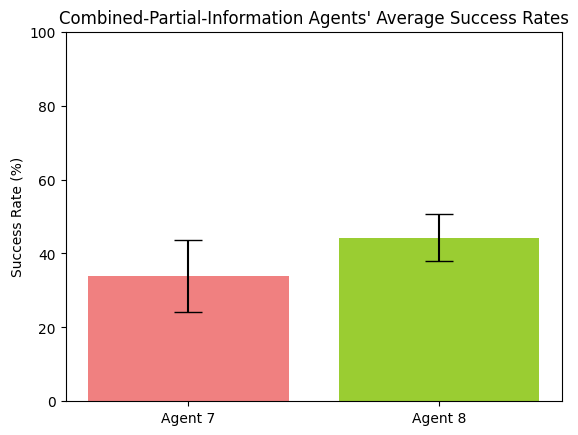
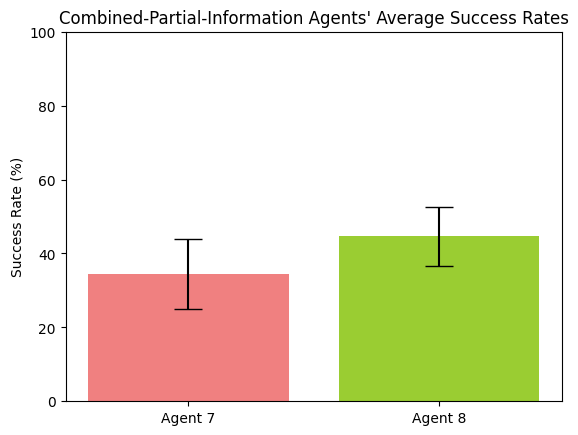
fixed bugs in lab report of a5 - a8

diff --git a/main.py b/main.py
@@ -2,6 +2,7 @@ import json
 import os
 import simulation_statistics as simulation_statistics
 
+
 def get_overall_simulation_statistics(wins, losses, timeouts, success_rates, found_prey=None, found_pred=None):
     average_wins = round(sum(wins) / len(wins), 2)
     average_losses = round(sum(losses) / len(losses), 2)
@@ -150,6 +151,7 @@ def labreport_simulation_statistics_agent4():
     print(
         f"Agent4: Overall Success Rate: {round(sum(success_rates) / len(success_rates),2)}%")
 
+
 def labreport_simulation_statistics_agent5():
     """
     runs 100 simulations 30 times and returns the average 
@@ -158,19 +160,20 @@ def labreport_simulation_statistics_agent5():
     losses = []
     timeouts = []
     success_rates = []
-    found_prey = []
+    found_pred = []
 
     for _ in range(30):
-        simulation_wins, simulation_losses, simulation_timeouts, simulation_success, simulation_found_prey = simulation_statistics.agent5(100, 50)
+        simulation_wins, simulation_losses, simulation_timeouts, simulation_success, simulation_found_pred = simulation_statistics.agent5(
+            100, 50)
 
         wins.append(simulation_wins)
         losses.append(simulation_losses)
         timeouts.append(simulation_timeouts)
         success_rates.append(simulation_success)
-        found_prey.append(simulation_found_prey)
+        found_pred.append(simulation_found_pred)
 
     agent_data = get_overall_simulation_statistics(
-        wins, losses, timeouts, success_rates, found_prey=found_prey)
+        wins, losses, timeouts, success_rates, found_pred=found_pred)
     save_simulation_statistics("partial-predator", "agent5", agent_data)
 
     print(
@@ -188,7 +191,8 @@ def labreport_simulation_statistics_agent6():
     found_pred = []
 
     for _ in range(30):
-        simulation_wins, simulation_losses, simulation_timeouts, simulation_success, simulation_found_pred = simulation_statistics.agent6(100, 50)
+        simulation_wins, simulation_losses, simulation_timeouts, simulation_success, simulation_found_pred = simulation_statistics.agent6(
+            100, 50)
 
         wins.append(simulation_wins)
         losses.append(simulation_losses)
@@ -196,11 +200,13 @@ def labreport_simulation_statistics_agent6():
         success_rates.append(simulation_success)
         found_pred.append(simulation_found_pred)
 
-    agent_data = get_overall_simulation_statistics(wins, losses, timeouts, success_rates, found_pred=found_pred)
+    agent_data = get_overall_simulation_statistics(
+        wins, losses, timeouts, success_rates, found_pred=found_pred)
     save_simulation_statistics("partial-predator", "agent6", agent_data)
 
     print(
         f"Agent6: Overall Success Rate: {round(sum(success_rates) / len(success_rates),2)}%")
+
 
 def labreport_simulation_statistics_agent7():
     """
@@ -210,11 +216,12 @@ def labreport_simulation_statistics_agent7():
     losses = []
     timeouts = []
     success_rates = []
-    found_prey = [] 
+    found_prey = []
     found_pred = []
 
     for _ in range(30):
-        simulation_wins, simulation_losses, simulation_timeouts, simulation_success, simulation_found_prey, simulation_found_pred = simulation_statistics.agent7(100, 50)
+        simulation_wins, simulation_losses, simulation_timeouts, simulation_success, simulation_found_prey, simulation_found_pred = simulation_statistics.agent7(
+            100, 50)
 
         wins.append(simulation_wins)
         losses.append(simulation_losses)
@@ -223,11 +230,14 @@ def labreport_simulation_statistics_agent7():
         found_prey.append(simulation_found_prey)
         found_pred.append(simulation_found_pred)
 
-    agent_data = get_overall_simulation_statistics(wins, losses, timeouts, success_rates, found_pred=found_pred)
-    save_simulation_statistics("combined-partial-information", "agent7", agent_data)
+    agent_data = get_overall_simulation_statistics(
+        wins, losses, timeouts, success_rates, found_prey=found_prey, found_pred=found_pred)
+    save_simulation_statistics(
+        "combined-partial-information", "agent7", agent_data)
 
     print(
         f"Agent7: Overall Success Rate: {round(sum(success_rates) / len(success_rates),2)}%")
+
 
 def labreport_simulation_statistics_agent8():
     """
@@ -237,11 +247,12 @@ def labreport_simulation_statistics_agent8():
     losses = []
     timeouts = []
     success_rates = []
-    found_prey = [] 
+    found_prey = []
     found_pred = []
 
     for _ in range(30):
-        simulation_wins, simulation_losses, simulation_timeouts, simulation_success, simulation_found_prey, simulation_found_pred = simulation_statistics.agent8(100, 50)
+        simulation_wins, simulation_losses, simulation_timeouts, simulation_success, simulation_found_prey, simulation_found_pred = simulation_statistics.agent8(
+            100, 50)
 
         wins.append(simulation_wins)
         losses.append(simulation_losses)
@@ -250,26 +261,29 @@ def labreport_simulation_statistics_agent8():
         found_prey.append(simulation_found_prey)
         found_pred.append(simulation_found_pred)
 
-    agent_data = get_overall_simulation_statistics(wins, losses, timeouts, success_rates, found_pred=found_pred)
-    save_simulation_statistics("combined-partial-information", "agent8", agent_data)
+    agent_data = get_overall_simulation_statistics(
+        wins, losses, timeouts, success_rates, found_prey=found_prey, found_pred=found_pred)
+    save_simulation_statistics(
+        "combined-partial-information", "agent8", agent_data)
 
     print(
         f"Agent8: Overall Success Rate: {round(sum(success_rates) / len(success_rates),2)}%")
 
+
 if __name__ == "__main__":
-    
-    #labreport_simulation_statistics_agent1()
-    #labreport_simulation_statistics_agent2()
+
+    # labreport_simulation_statistics_agent1()
+    # labreport_simulation_statistics_agent2()
     #simulation_statistics.visualize("data/", "simulation_statistics_complete.json")
 
-    #labreport_simulation_statistics_agent3()
-    #labreport_simulation_statistics_agent4()
+    # labreport_simulation_statistics_agent3()
+    # labreport_simulation_statistics_agent4()
     #simulation_statistics.visualize("data/", "simulation_statistics_partial-prey.json")
 
-    #labreport_simulation_statistics_agent5()
-    #labreport_simulation_statistics_agent6()   
+    # labreport_simulation_statistics_agent5()
+    # labreport_simulation_statistics_agent6()
     simulation_statistics.visualize("data/", "simulation_statistics_partial-predator.json")
 
-    #labreport_simulation_statistics_agent7()
-    #labreport_simulation_statistics_agent8()
+    # labreport_simulation_statistics_agent7()
+    # labreport_simulation_statistics_agent8()
     simulation_statistics.visualize("data/", "simulation_statistics_combined-partial-information.json")

diff --git a/simulation_statistics.py b/simulation_statistics.py
@@ -108,6 +108,7 @@ def agent4(num_simulations, nodes=50):
         f"Agent4: Wins: {wins}\tLosses: {losses}\tTimeouts: {timeouts}\tSuccess Rate: {round(success*100,2)}%")
     return wins, losses, timeouts, round(success*100, 2), found_prey/num_simulations
 
+
 def agent5(num_simulations, nodes=50):
     """
     run simulation n times and get statistics on success
@@ -135,6 +136,7 @@ def agent5(num_simulations, nodes=50):
         f"Agent5: Wins: {wins}\tLosses: {losses}\tTimeouts: {timeouts}\tSuccess Rate: {round(success*100,2)}%")
     return wins, losses, timeouts, round(success*100, 2), found_pred/num_simulations
 
+
 def agent6(num_simulations, nodes=50):
     """
     run simulation n times and get statistics on success
@@ -158,8 +160,10 @@ def agent6(num_simulations, nodes=50):
     wins = sum(agent_success)
     losses = len(agent_success) - wins - timeouts
     success = wins/(len(agent_success))
-    print(f"Agent5: Wins: {wins}\tLosses: {losses}\tTimeouts: {timeouts}\tSuccess Rate: {round(success*100,2)}%")
+    print(
+        f"Agent5: Wins: {wins}\tLosses: {losses}\tTimeouts: {timeouts}\tSuccess Rate: {round(success*100,2)}%")
     return wins, losses, timeouts, round(success*100, 2), found_pred/num_simulations
+
 
 def agent7(num_simulations, nodes=50):
     """
@@ -188,8 +192,10 @@ def agent7(num_simulations, nodes=50):
     wins = sum(agent_success)
     losses = len(agent_success) - wins - timeouts
     success = wins/(len(agent_success))
-    print(f"Agent7: Wins: {wins}\tLosses: {losses}\tTimeouts: {timeouts}\tSuccess Rate: {round(success*100,2)}%")
+    print(
+        f"Agent7: Wins: {wins}\tLosses: {losses}\tTimeouts: {timeouts}\tSuccess Rate: {round(success*100,2)}%")
     return wins, losses, timeouts, round(success*100, 2), found_prey/num_simulations, found_pred/num_simulations
+
 
 def agent8(num_simulations, nodes=50):
     """
@@ -218,8 +224,10 @@ def agent8(num_simulations, nodes=50):
     wins = sum(agent_success)
     losses = len(agent_success) - wins - timeouts
     success = wins/(len(agent_success))
-    print(f"Agent8: Wins: {wins}\tLosses: {losses}\tTimeouts: {timeouts}\tSuccess Rate: {round(success*100,2)}%")
+    print(
+        f"Agent8: Wins: {wins}\tLosses: {losses}\tTimeouts: {timeouts}\tSuccess Rate: {round(success*100,2)}%")
     return wins, losses, timeouts, round(success*100, 2), found_prey/num_simulations, found_pred/num_simulations
+
 
 def visualize(dirname, filename):
     """
@@ -269,7 +277,3 @@ def visualize(dirname, filename):
     # plt.show()
 
     return 1
-
-
-#game = Game()
-#game.run_agent_7_debug()
